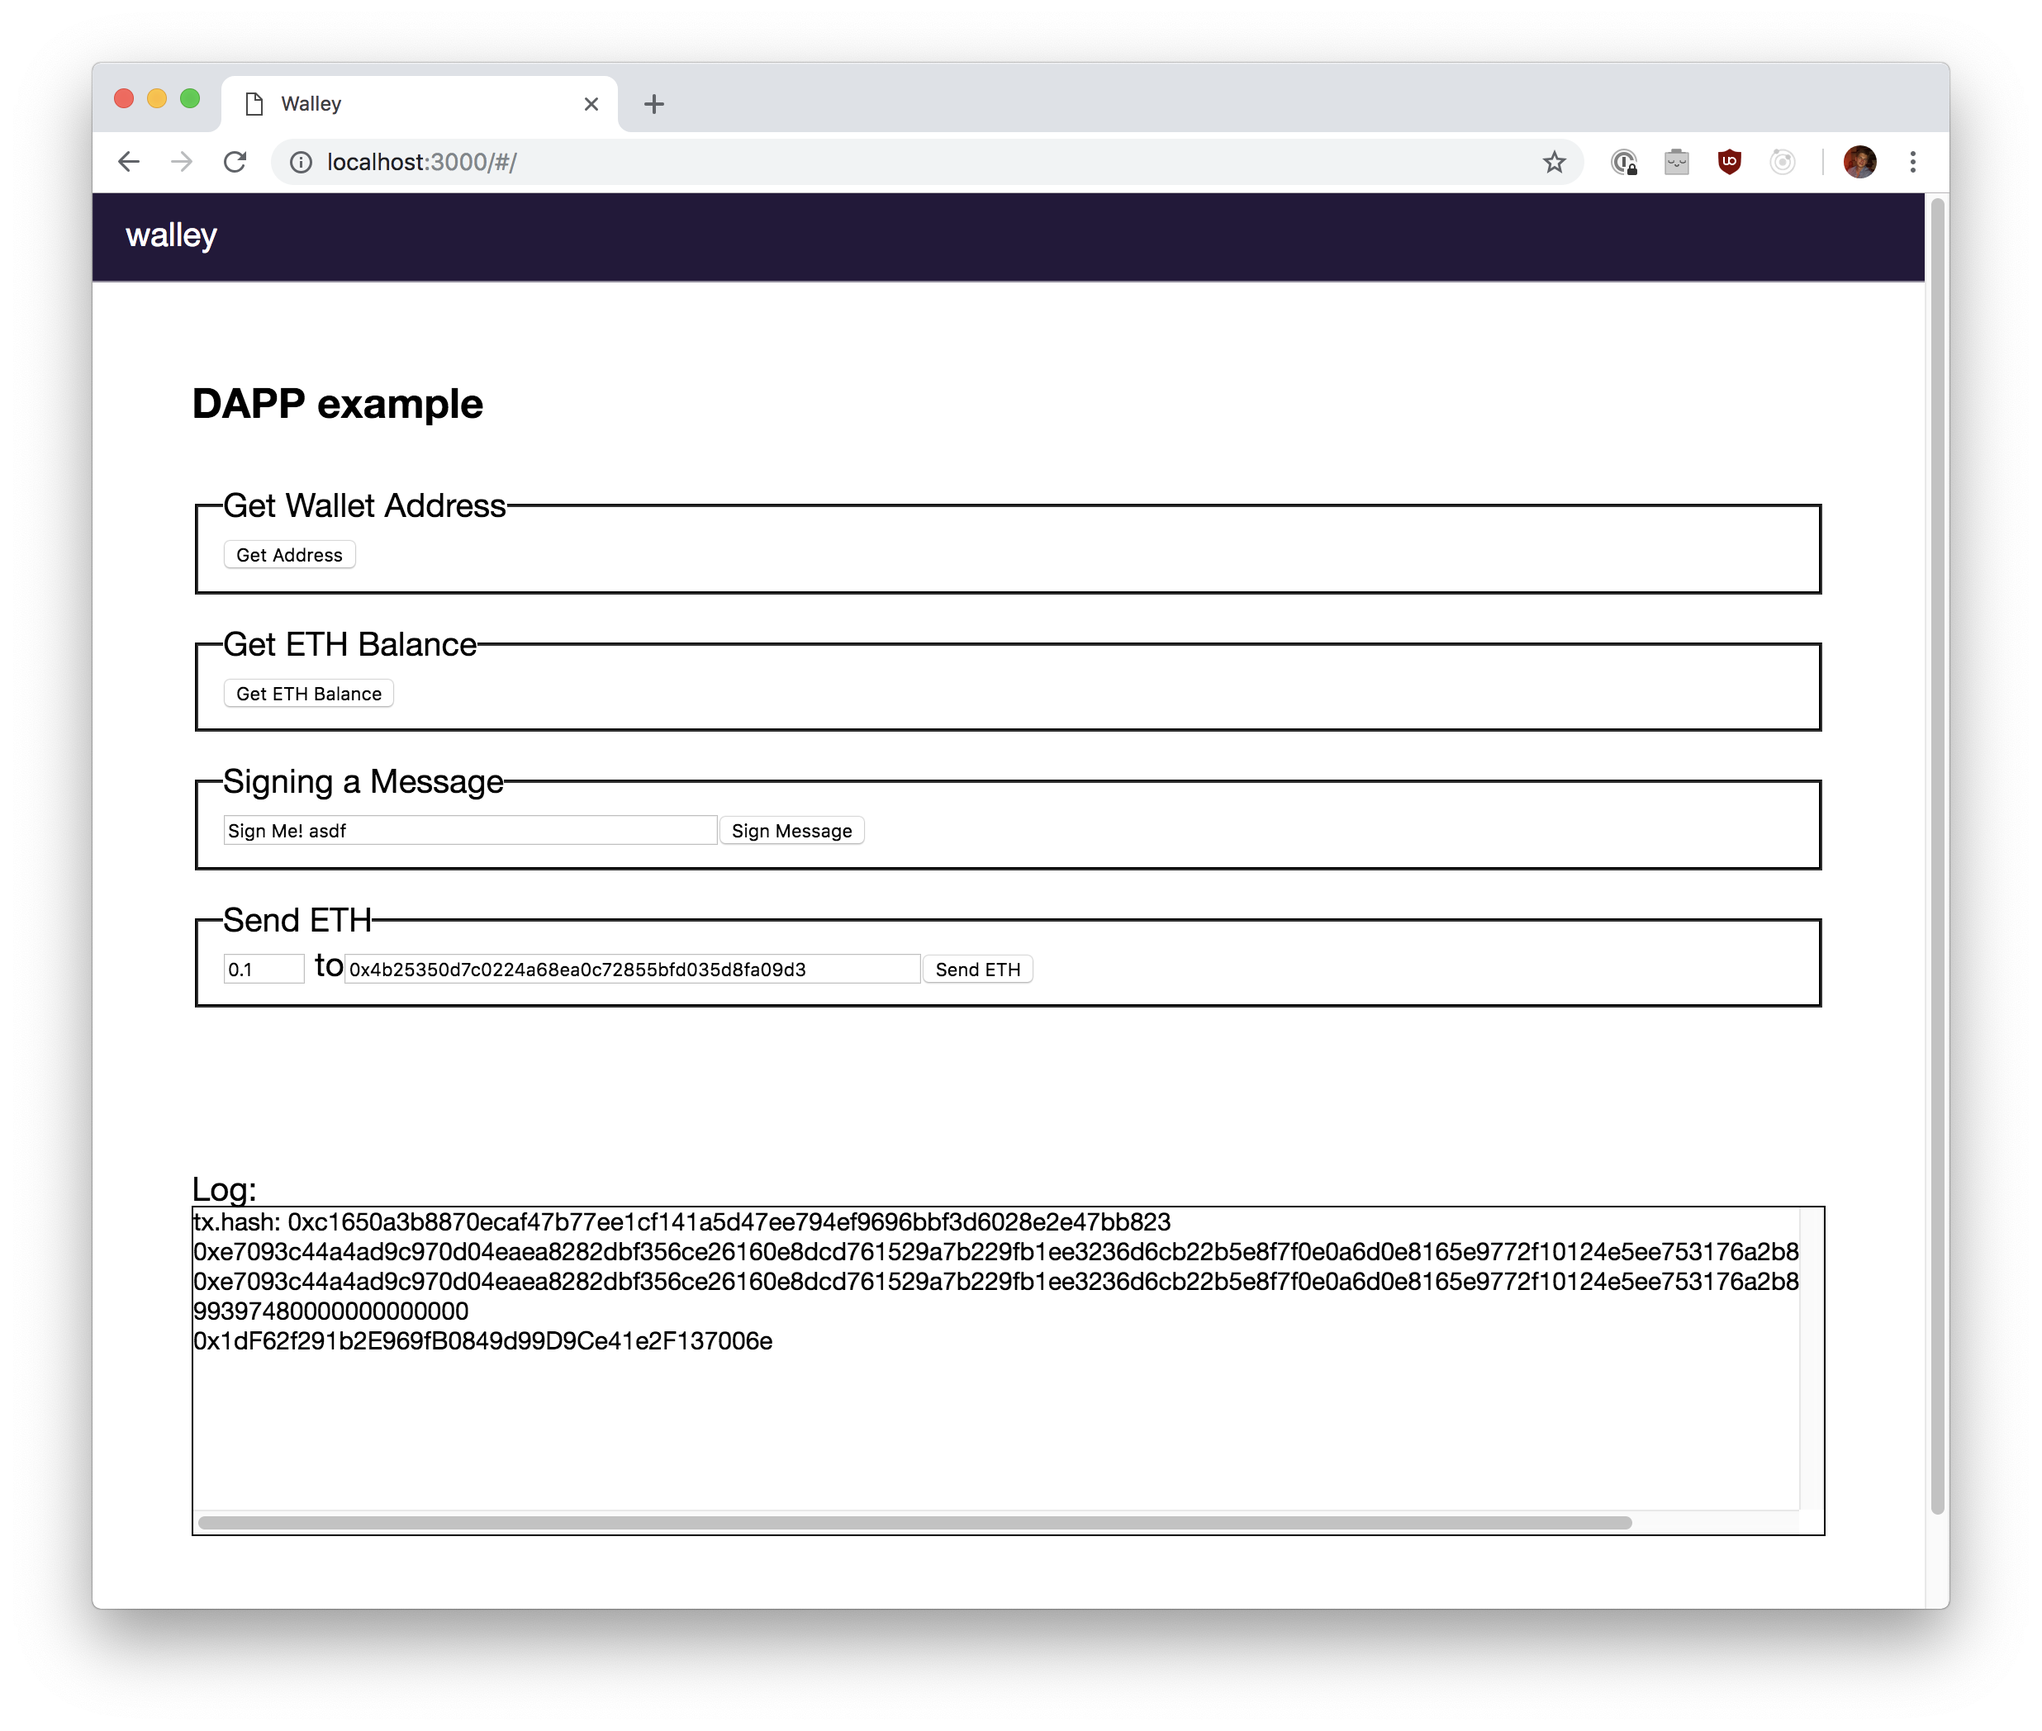
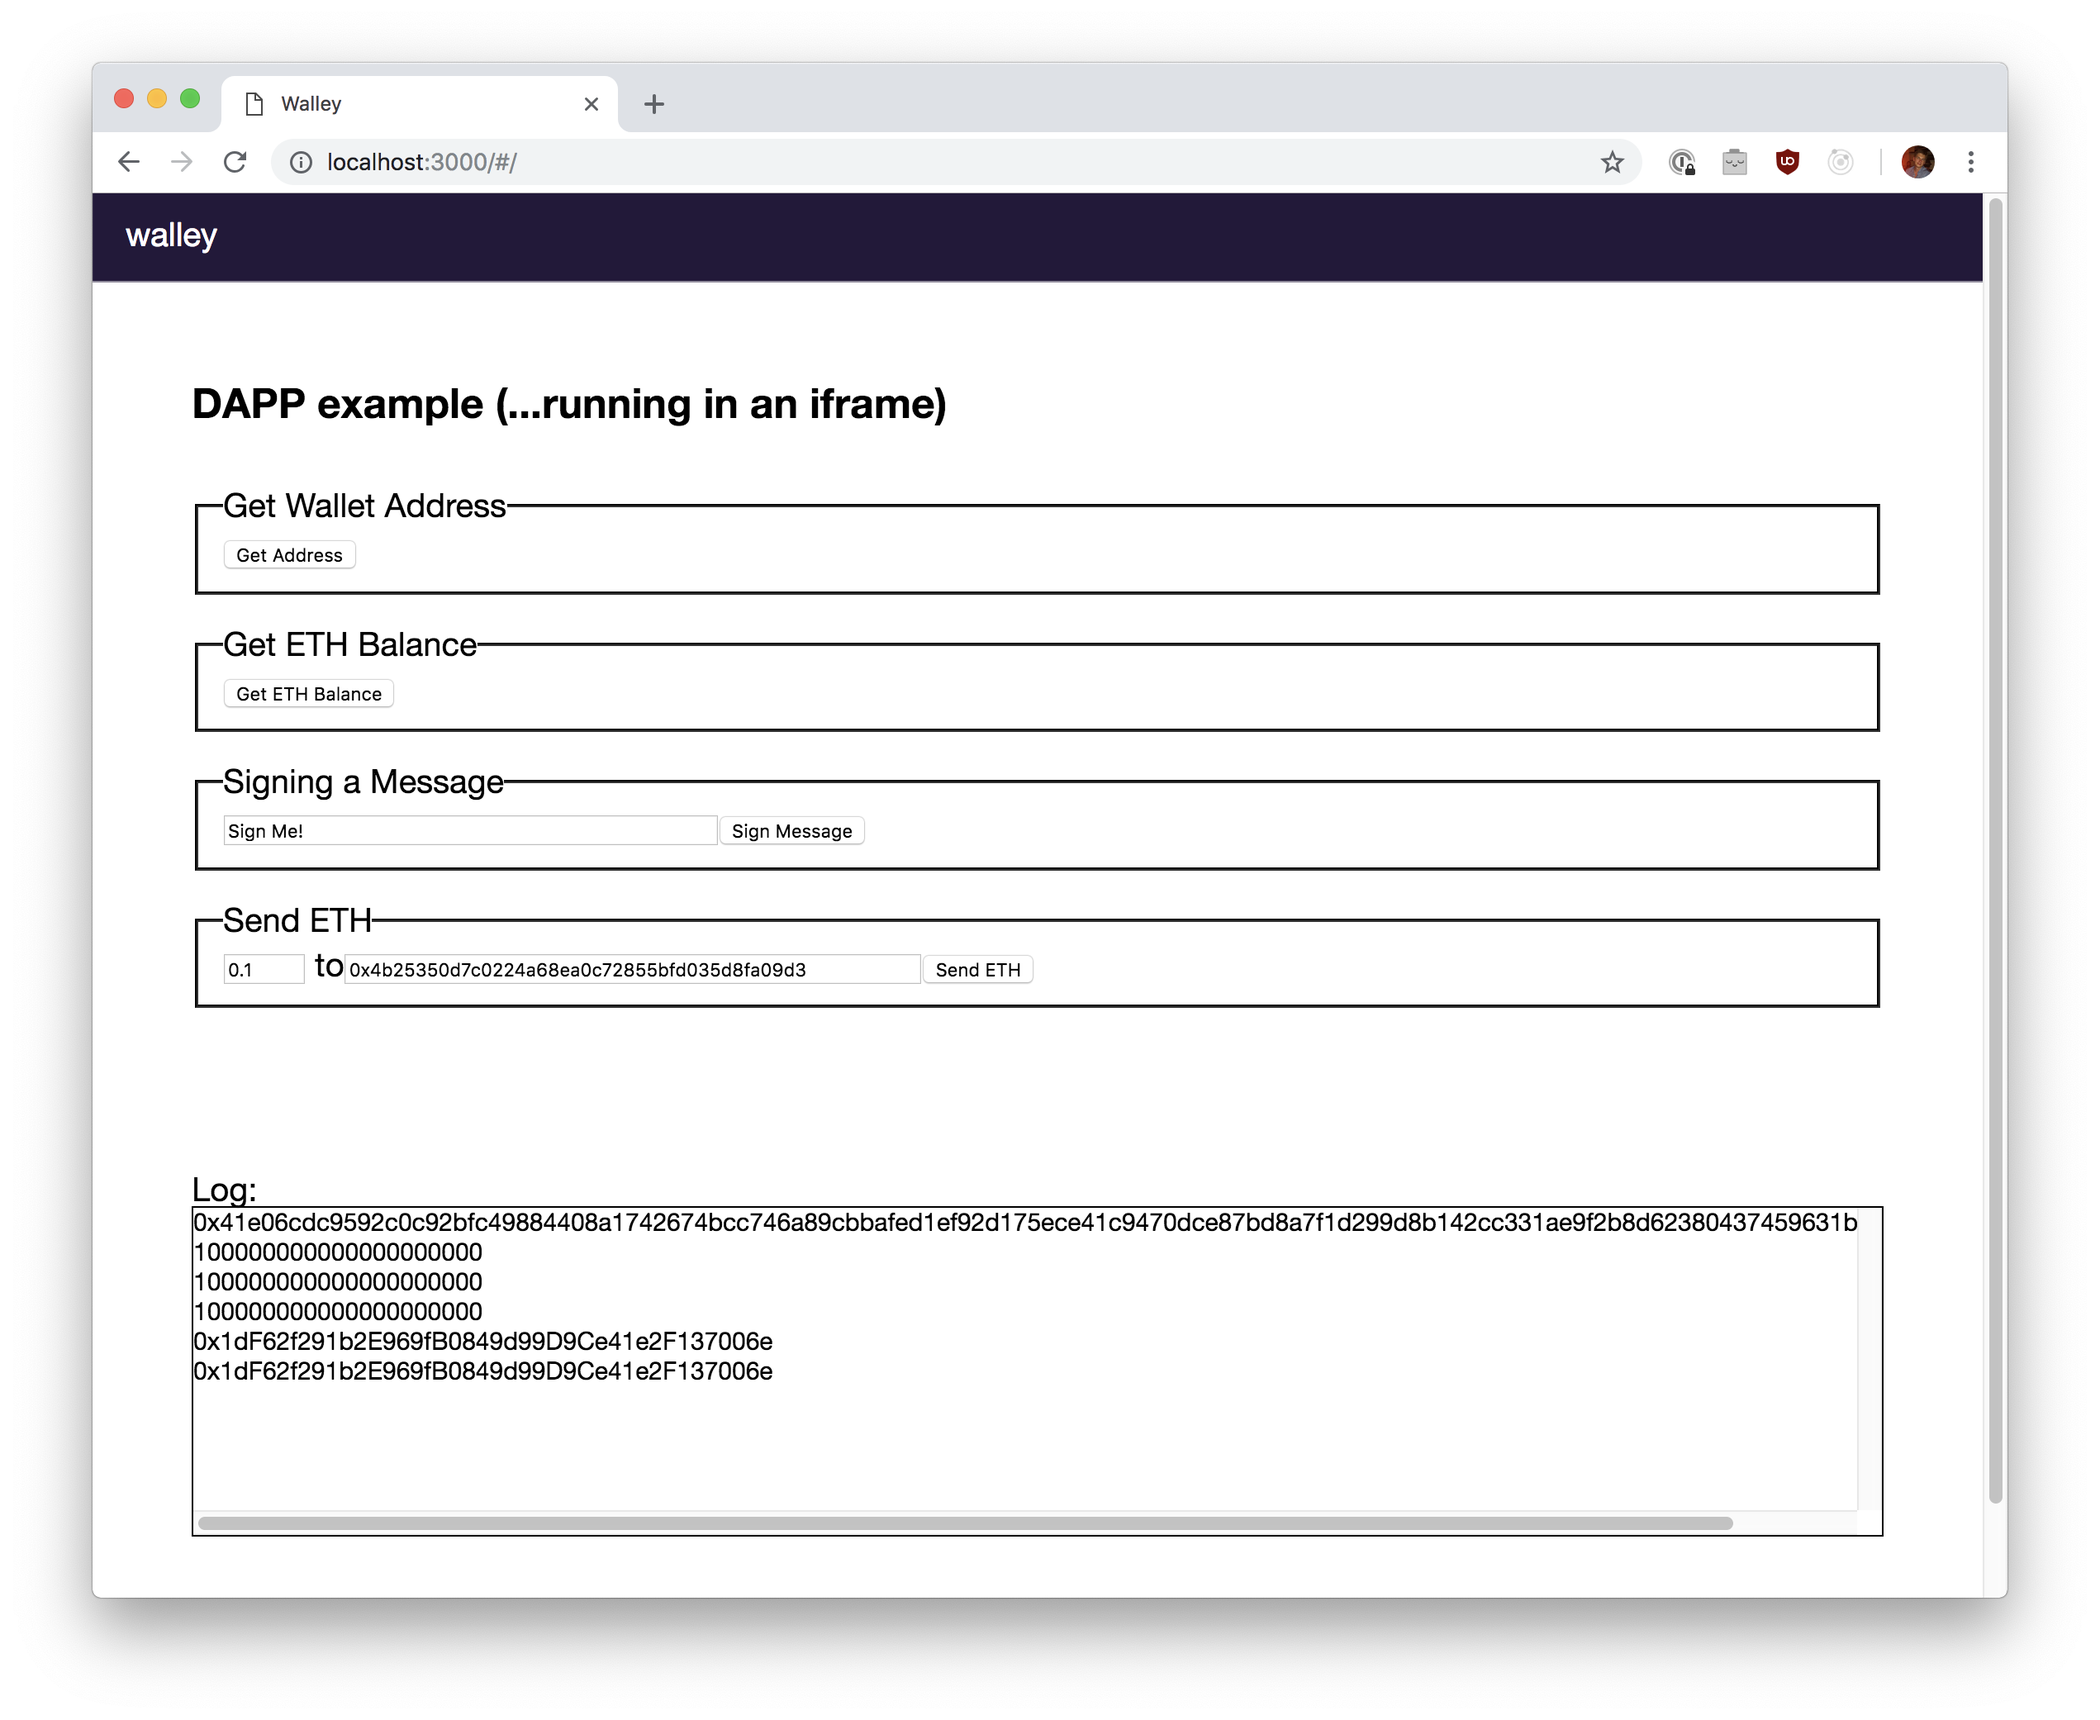
README

diff --git a/example-dapp/src/routes/IndexRoute.tsx b/example-dapp/src/routes/IndexRoute.tsx
@@ -79,7 +79,7 @@ class IndexRoute extends React.Component<IIndexRouteProps, { log: string }> {
   render() {
     return (
       <Container>
-        <h1>DAPP example</h1>
+        <h1>DAPP example (...running in an iframe)</h1>
 
         <fieldset className={'getAddress'}>
           <legend>Get Wallet Address</legend>
